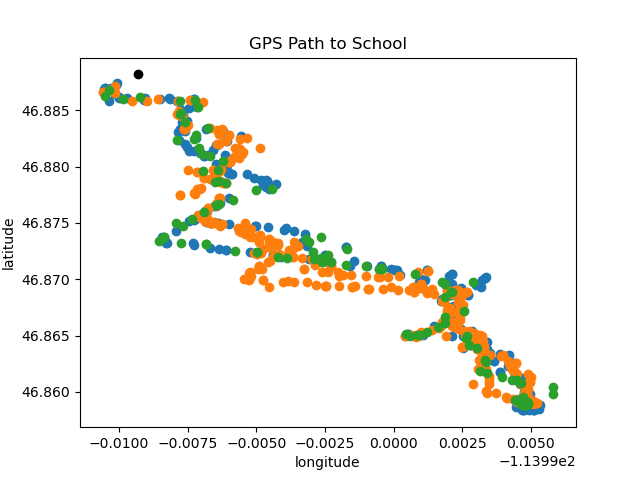
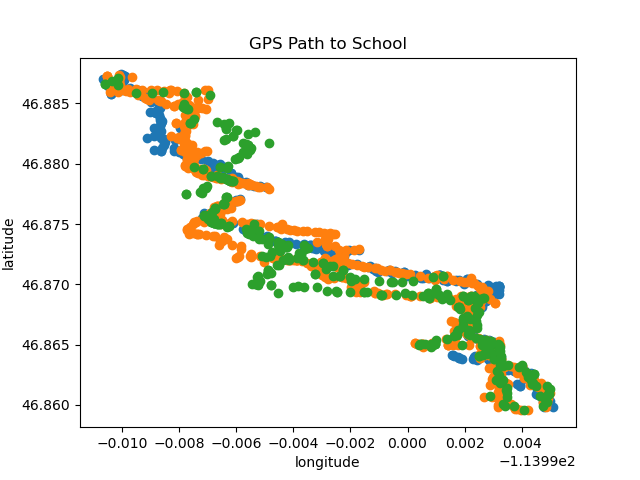
updating data

diff --git a/usecases_data/gps_assasination/clean_data.py b/usecases_data/gps_assasination/clean_data.py
@@ -43,15 +43,15 @@ for f in files:
     json.dump(datum, open('cln_{}'.format(f), 'w'))
 
 
-for f in files[:3]:
+for f in files[5:8]:
     collection = json.load(open('cln_{}'.format(f), 'r'))['features']
     lons = [i['geometry']['coordinates'][0] for i in collection]
     lats = [i['geometry']['coordinates'][1] for i in collection]
     plt.scatter(lons, lats)
 
 
-plt.scatter(my_lonlat[0], my_lonlat[1], color='black')
-plt.scatter(dest_lonlat[0], dest_lonlat[1], color='black')
+# plt.scatter(my_lonlat[0], my_lonlat[1], color='black')
+# plt.scatter(dest_lonlat[0], dest_lonlat[1], color='black')
 plt.title('GPS Path to School')
 plt.ylabel('latitude')
 plt.xlabel('longitude')

diff --git a/usecases_data/gps_assasination/README.md b/usecases_data/gps_assasination/README.md
@@ -25,7 +25,7 @@ At the end of the project, you need to submit:
 ### Data
 Data is collected on my Android phone using the [GPSLogger](https://play.google.com/store/apps/details?id=com.mendhak.gpslogger&hl=en_US) application which is free but lacking in precision.
 
-The data is available on Canvas under `TBD.zip`.
+The data is available on Canvas under `gps.zip`.
 
 The data is in a GEOJSON format which is similar to a JSON format. Here's some sample code to
 help load in the data. If you are unfamiliar with JSON data, just ask for help! They are like
